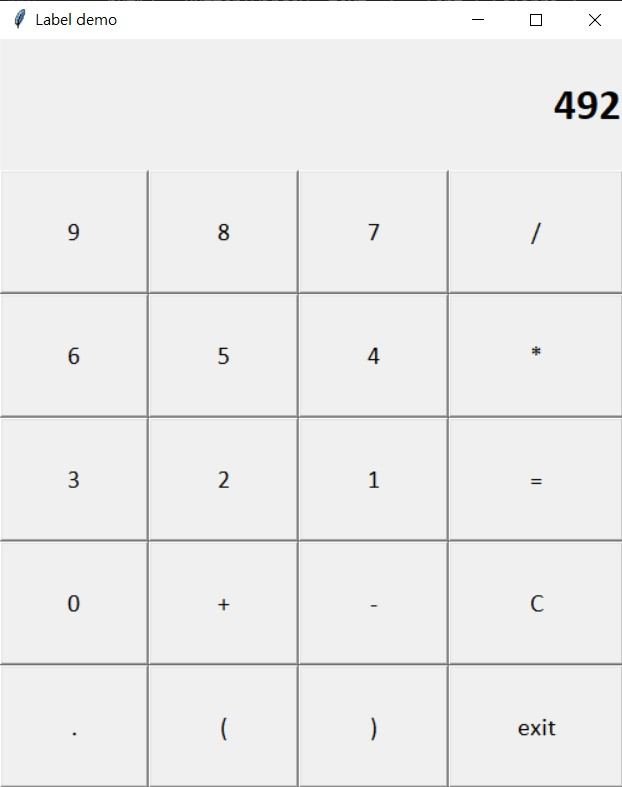
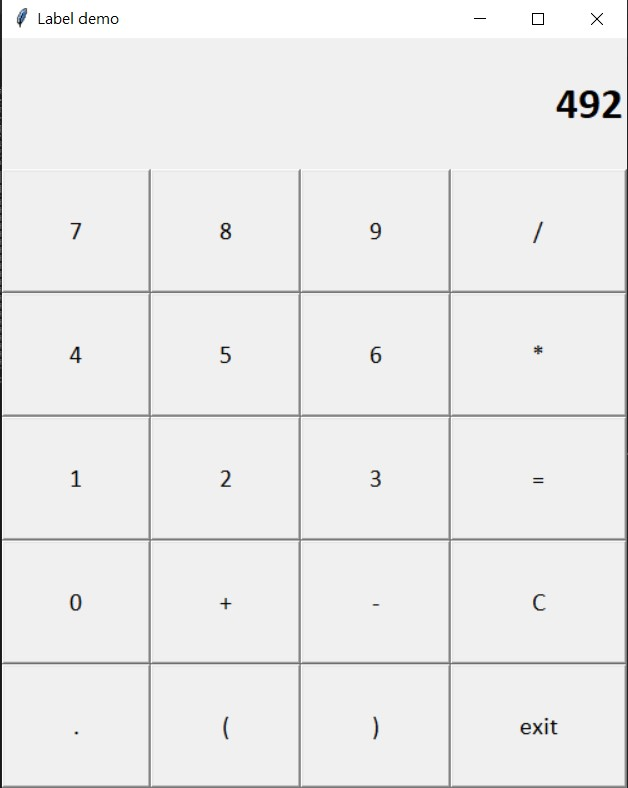
new post GUI

diff --git a/content/post/python-GUI.md b/content/post/python-GUI.md
@@ -57,31 +57,31 @@ tags = ["Python"]
     lab.grid(row=0,column=0, columnspan=4,sticky=NSEW)
 
     but = Button(window, text="9", font=("Calibri"), command=lambda:math("9"))
-    but.grid(row=1, column=0, sticky=NSEW)
+    but.grid(row=1, column=2, sticky=NSEW)
 
     but1 = Button(window, text="8", font=("Calibri"), command=lambda:math("8"))
     but1.grid(row=1, column=1, sticky=NSEW)
 
     but2 = Button(window, text="7", font=("Calibri"), command=lambda:math("7"))
-    but2.grid(row=1, column=2, sticky=NSEW)
+    but2.grid(row=1, column=0, sticky=NSEW)
 
     but3 = Button(window, text="6", font=("Calibri"), command=lambda:math("6"))
-    but3.grid(row=2, column=0, sticky=NSEW)
+    but3.grid(row=2, column=2, sticky=NSEW)
 
     but4 = Button(window, text="5", font=("Calibri"), command=lambda:math("5"))
     but4.grid(row=2, column=1, sticky=NSEW)
 
     but5 = Button(window, text="4", font=("Calibri"), command=lambda:math("4"))
-    but5.grid(row=2, column=2, sticky=NSEW)
+    but5.grid(row=2, column=0, sticky=NSEW)
 
     but6 = Button(window, text="3", font=("Calibri"), command=lambda:math("3"))
-    but6.grid(row=3, column=0, sticky=NSEW)
+    but6.grid(row=3, column=2, sticky=NSEW)
 
     but7 = Button(window, text="2", font=("Calibri"), command=lambda:math("2"))
     but7.grid(row=3, column=1, sticky=NSEW)
 
     but8 = Button(window, text="1", font=("Calibri"), command=lambda:math("1"))
-    but8.grid(row=3, column=2, sticky=NSEW)
+    but8.grid(row=3, column=0, sticky=NSEW)
 
     but9 = Button(window, text="0", font=("Calibri"), command=lambda:math("0"))
     but9.grid(row=4, column=0, sticky=NSEW)
@@ -119,6 +119,8 @@ tags = ["Python"]
     window.mainloop()
 
 ## 執行結果
+運算123*4 = 492
+
 ![test](/GUI/test.jpg)
 
 ![test](/GUI/test1.jpg)
